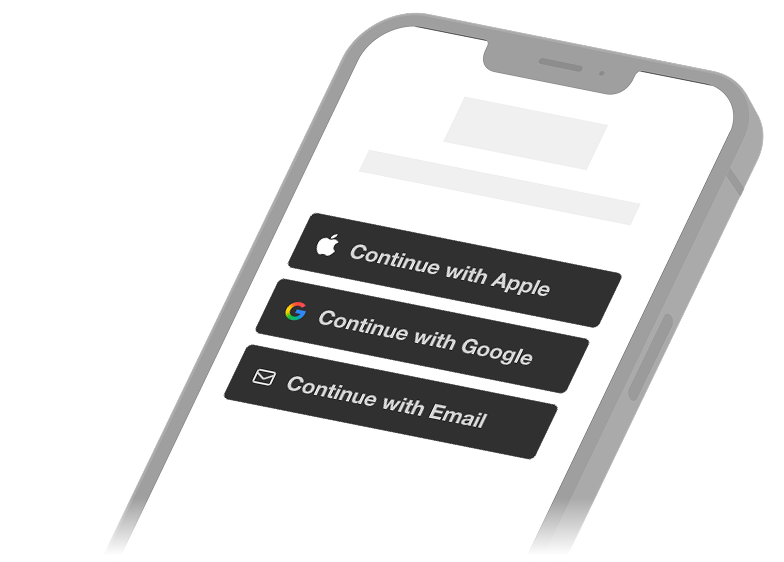
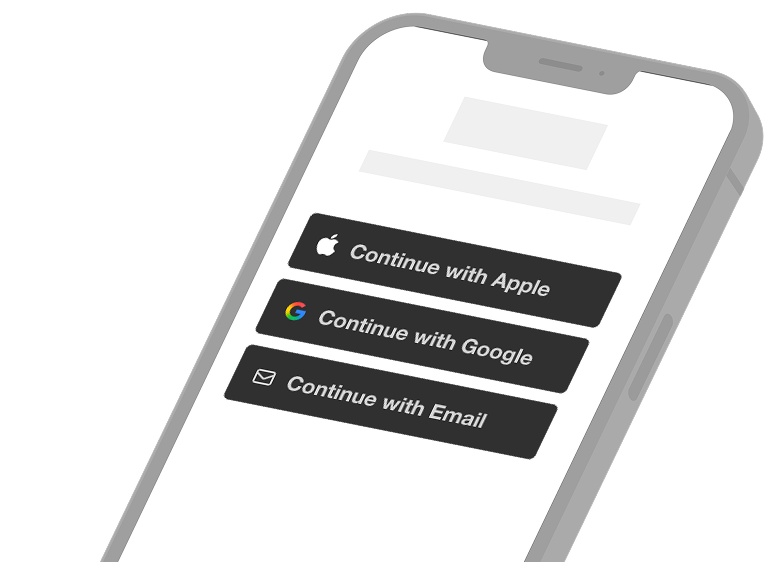
Enhance card styles and update image dimensions in index.html
- Added a new inset box-shadow effect to the card component for improved visual depth.
- Adjusted image dimensions for B2C, B2B, and Vibe images to enhance layout consistency across different screen sizes.
- Updated media queries for dark mode to ensure proper styling and visibility.

Changed region(s): [[0.6429, 0.9075, 0.7653, 1.0], [0.1224, 0.9075, 0.1837, 1.0]]

diff --git a/src/index/index.html b/src/index/index.html
@@ -54,6 +54,21 @@
             @apply mt-4 p-5 md:p-10 flex flex-col md:flex-row items-start justify-between min-h-56 md:h-[500px] border border-charcoal/25 dark:border-[#808080]/25 text-charcoal dark:text-gray rounded-xl relative font-light overflow-hidden;
         }
 
+        .card::after {
+            content: "";
+            position: absolute;
+            inset: 0;
+            box-shadow: inset 0 0 25px 30px white;
+            pointer-events: none; /* so clicks pass through */
+            z-index: 1;
+        }
+
+        @media (prefers-color-scheme: dark) {
+            .card::after {
+                box-shadow: inset 0 0 50px 25px #151515;
+            }
+        }
+
         .card-description {
             @apply h-full w-full md:w-1/2 text-lg md:text-2xl text-charcoal/50 dark:text-gray/50 flex flex-col justify-between space-y-5;
         }
@@ -655,8 +670,9 @@
                         <source srcset="/b2c-dark.png" media="(prefers-color-scheme: dark)">
                         <img src="/b2c-light.png" alt="phone showing continue with apple, google, and email buttons"
                             data-aos="slide"
-                            class="w-full md:w-auto -mb-5 mt-10 md:-mb-0 md:mt-0 md:h-full md:absolute md:right-10 md:-bottom-1"
-                            style="animation: float 3s infinite;">
+                            class="w-full md:w-auto -mb-5 mt-10 md:-mb-0 md:mt-0 md:h-[115%] md:absolute md:right-10 md:-bottom-16"
+                            style="animation: float 3s infinite;"
+                            >
                     </picture>
                 </div>
             </div>
@@ -696,7 +712,7 @@
                         <source srcset="/b2b-dark.png" media="(prefers-color-scheme: dark)">
                         <img src="/b2b-light.png" alt="phone showing continue with apple, google, and email buttons"
                             data-aos="slide"
-                            class="w-full md:w-auto -mb-5 mt-10 md:-mb-0 md:mt-0 md:h-full md:absolute md:right-10 md:-bottom-1"
+                            class="w-full md:w-auto -mb-5 mt-10 md:-mb-0 md:mt-0 md:h-[115%] md:absolute md:right-10 md:-bottom-16"
                             style="animation: float 5s infinite;">
                     </picture>
                 </div>
@@ -736,7 +752,7 @@
                         <source srcset="/vibe-dark.png" media="(prefers-color-scheme: dark)">
                         <img src="/vibe-light.png" alt="phone showing continue with apple, google, and email buttons"
                             data-aos="slide"
-                            class="w-full md:w-auto -mb-5 mt-10 md:-mb-0 md:mt-0 md:h-full md:absolute md:right-10 md:-bottom-1"
+                            class="w-full md:w-auto -mb-5 mt-10 md:-mb-0 md:mt-0 md:h-[115%] md:absolute md:right-10 md:-bottom-16"
                             style="animation: float 4s infinite;">
                     </picture>
                 </div>
